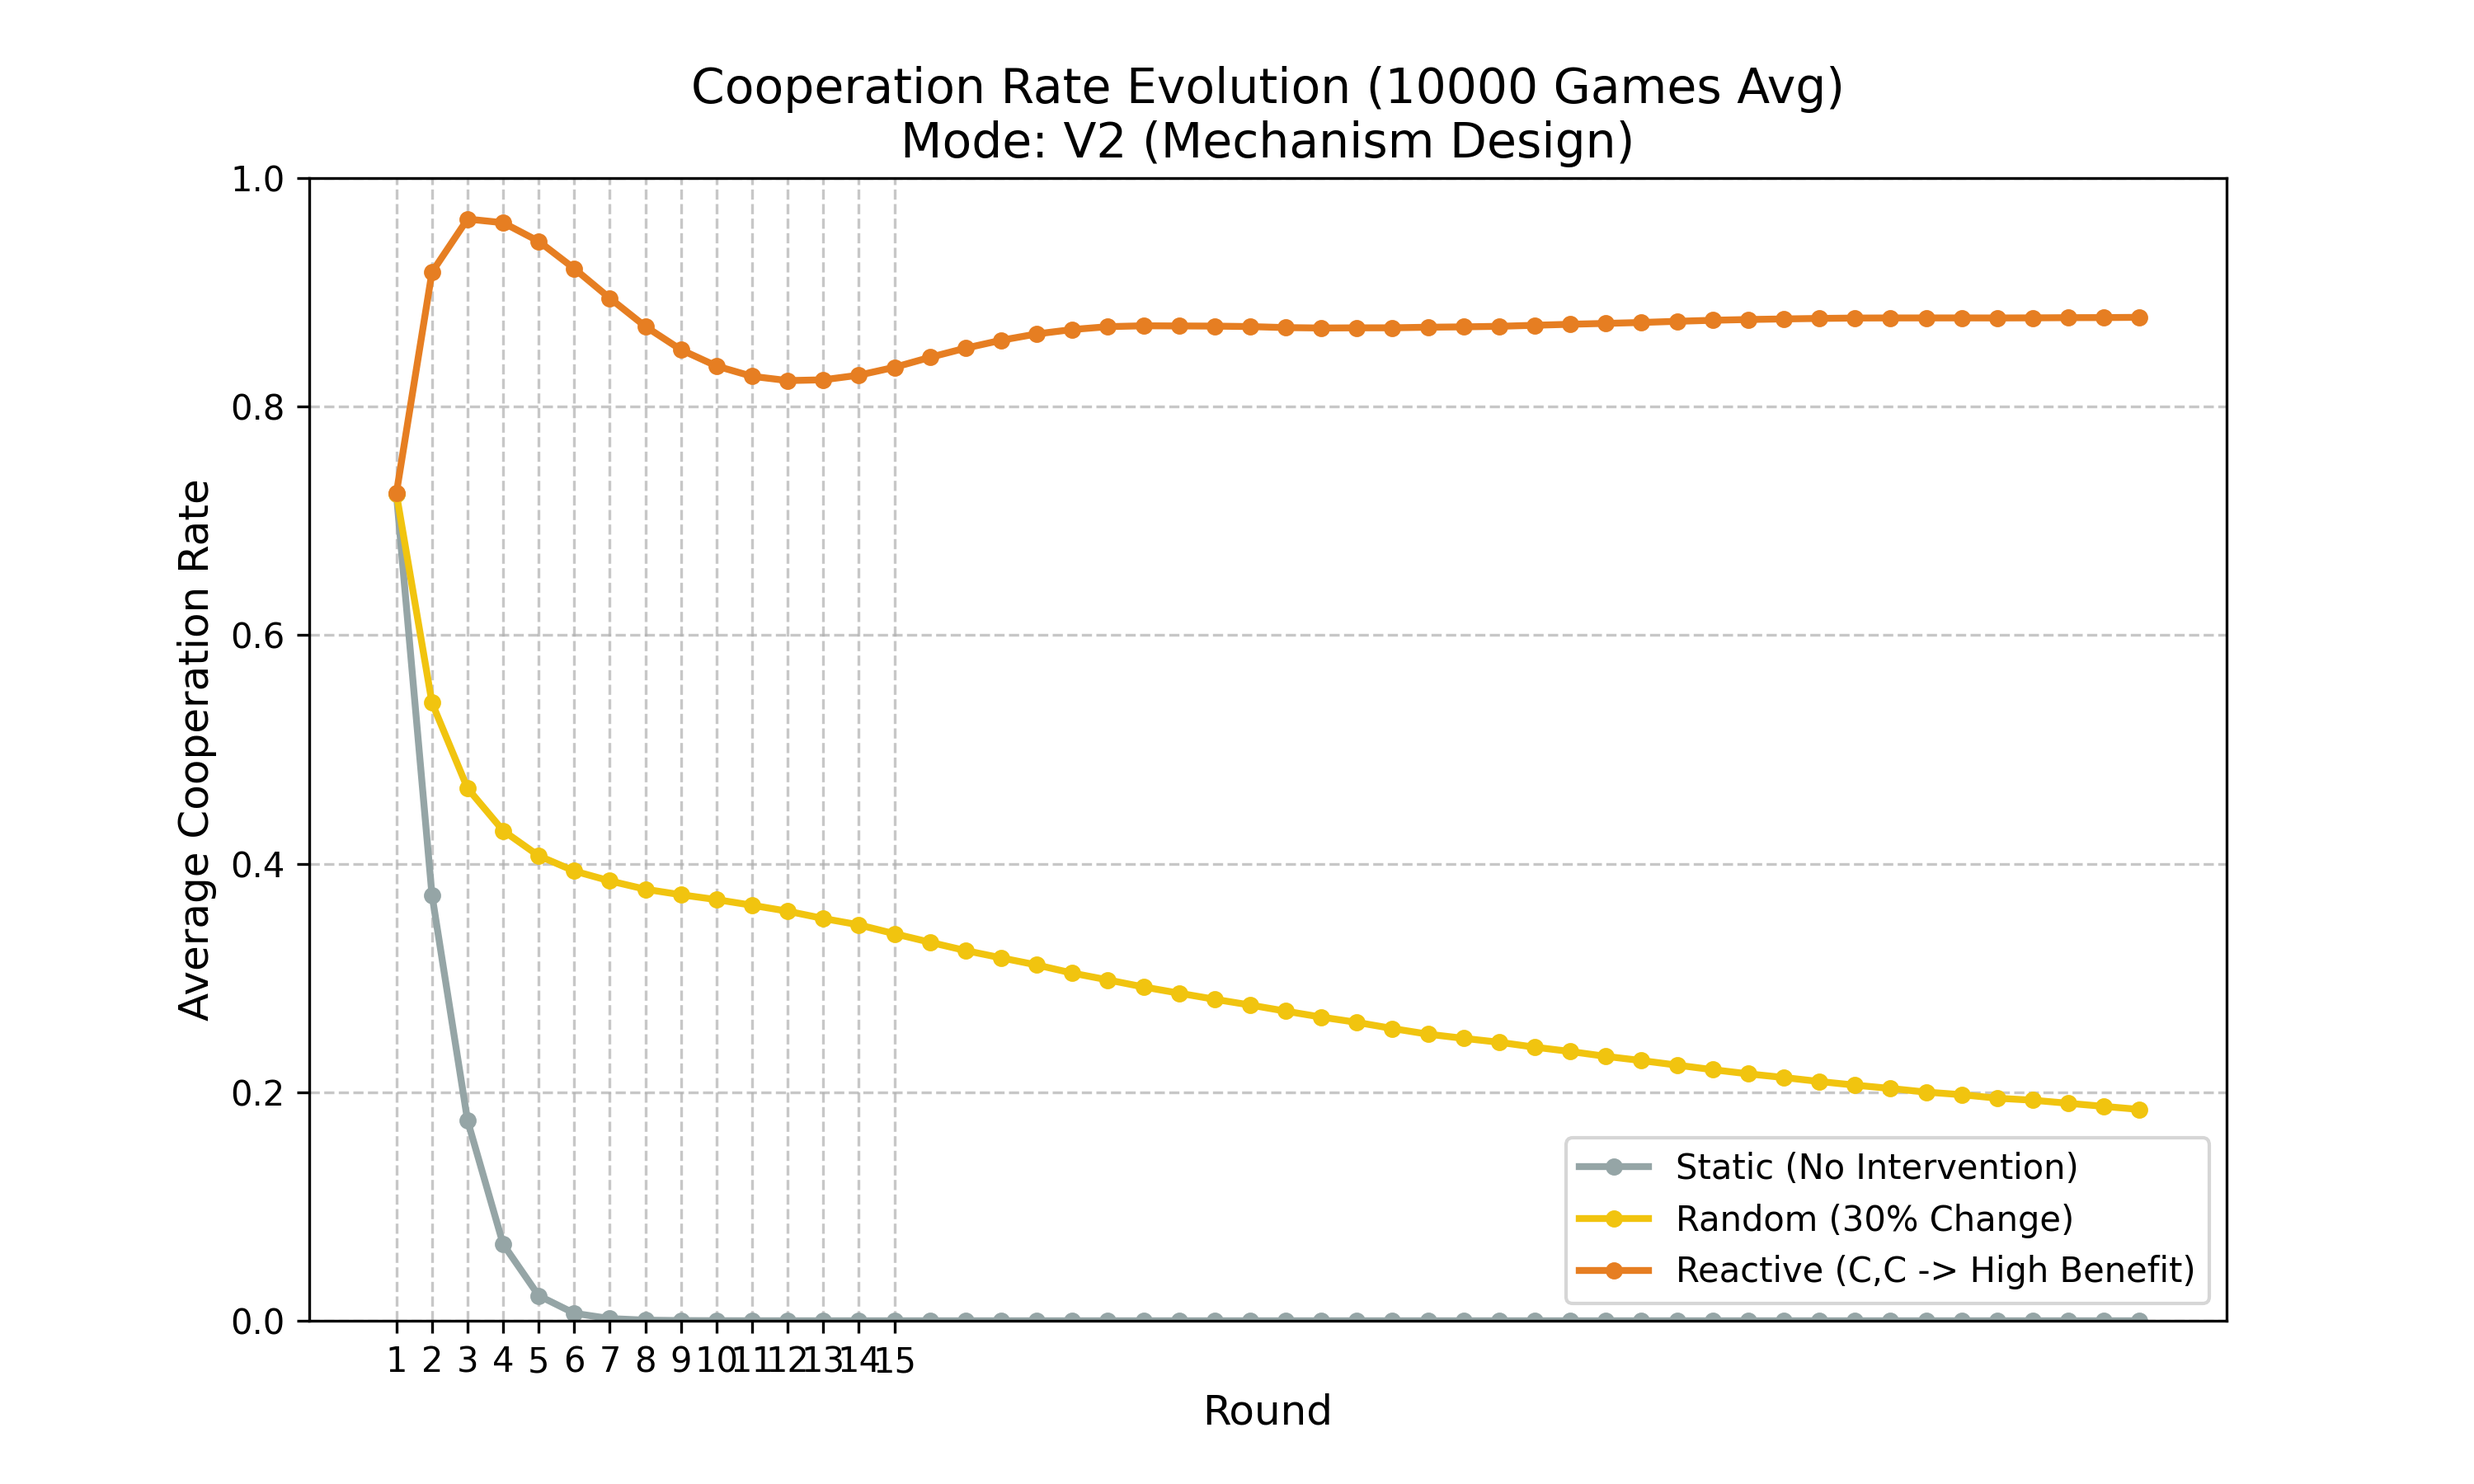
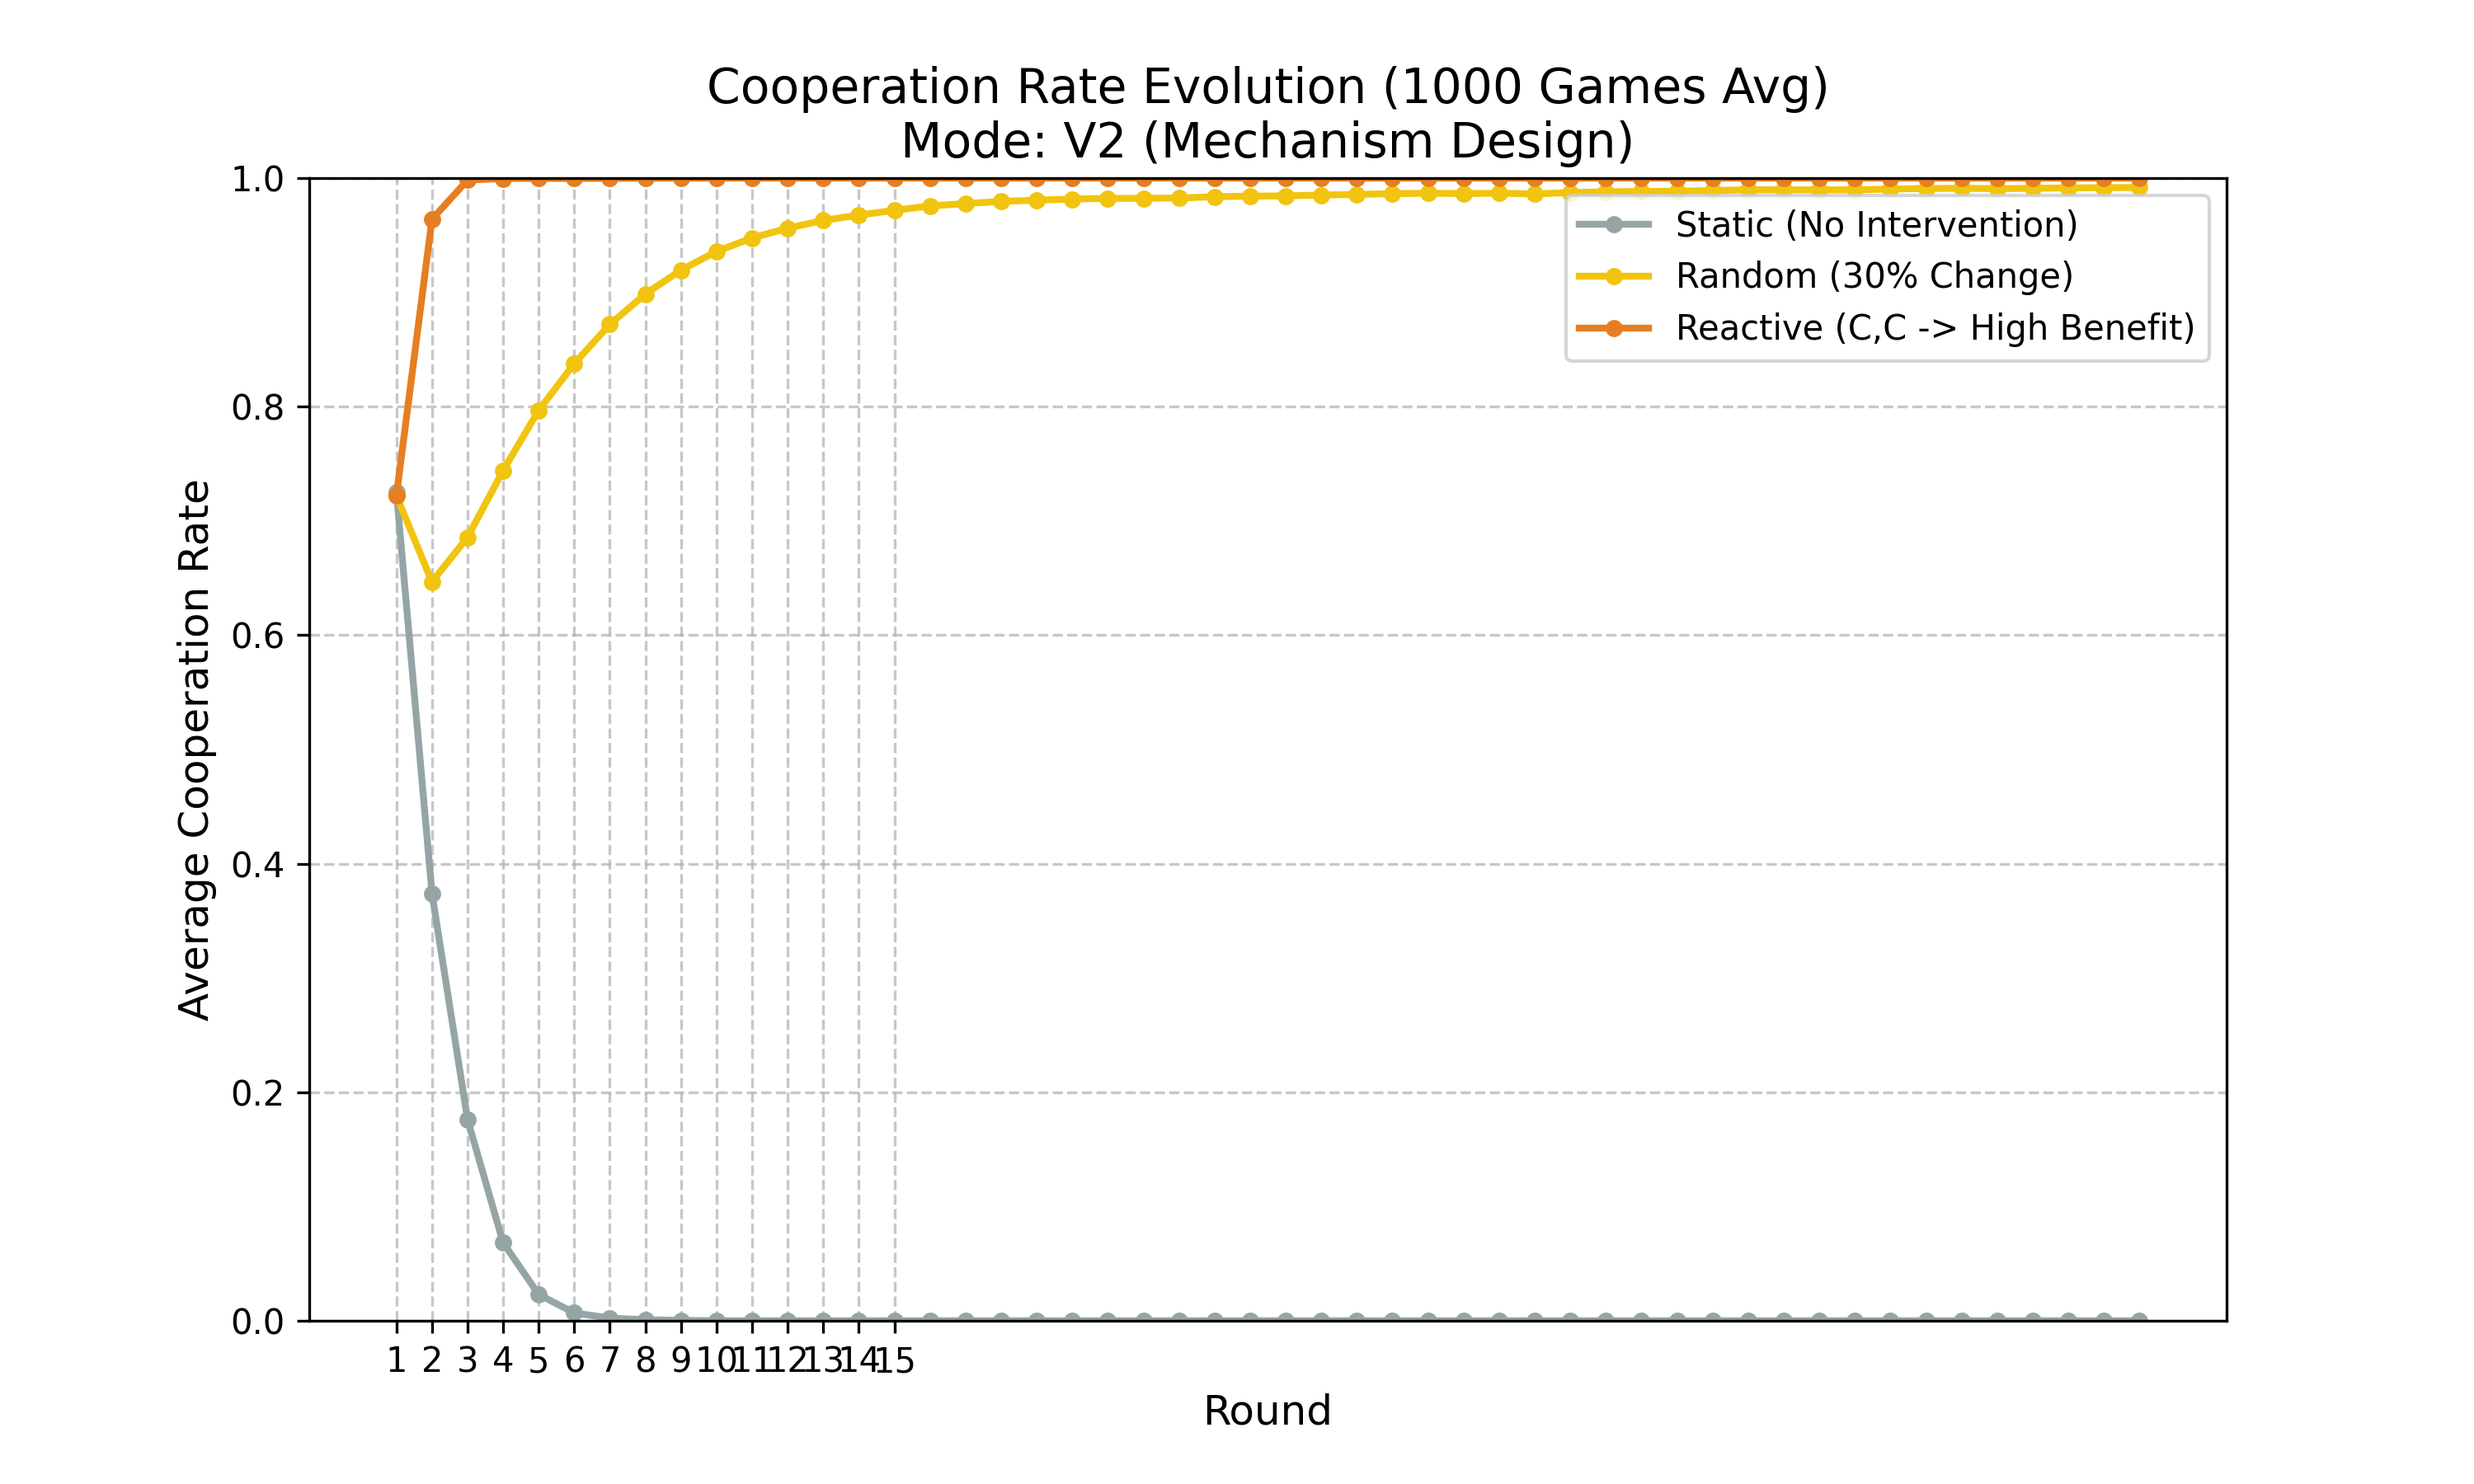
0424

diff --git a/planners/baselines.py b/planners/baselines.py
@@ -1,5 +1,6 @@
 # planners/baselines.py
 import torch
+import math
 from .base import BasePlanner, prob_to_logits
 from config import MODE
 
@@ -55,10 +56,38 @@ class StaticPlannerV2(BasePlanner):
         return logits
 
 class RandomPlannerV2(BasePlanner):
+    """
+    V2 随机规划师（严格修正版）：
+    以 30% 的概率建议“改变现状”（即翻转当前的风险规则）。
+    - 如果当前是低风险 (0)，30% 概率建议高风险 (1)，70% 建议保持低风险 (0)
+    - 如果当前是高风险 (1)，30% 概率建议低风险 (0)，70% 建议保持高风险 (1)
+    """
     def get_logits(self, capital, prev_decisions, edge_features, round_num):
-        p_high_risk = 0.3
-        logits = prob_to_logits(p_high_risk, edge_features.device)
-        return logits.view(1, 1, 1, 2).expand(edge_features.shape[0], edge_features.shape[1], edge_features.shape[2], -1)
+        # 获取当前真实的规则状态 (0=低风险, 1=高风险)
+        # Shape: (B, N, N)
+        current_games = edge_features[..., 1] 
+        
+        # log(0.3) 和 log(0.7)
+        log_change = math.log(0.3)
+        log_keep = math.log(0.7)
+        
+        # --- 使用 torch.where 完美替代布尔索引，彻底杜绝维度报错 ---
+        
+        # 对于 Index 0 (建议低风险) 的打分：
+        # 如果当前是低风险(0)，则建议 0 代表"保持" (log_keep)
+        # 如果当前是高风险(1)，则建议 0 代表"改变" (log_change)
+        logits_0 = torch.where(current_games == 0, log_keep, log_change)
+        
+        # 对于 Index 1 (建议高风险) 的打分：
+        # 如果当前是低风险(0)，则建议 1 代表"改变" (log_change)
+        # 如果当前是高风险(1)，则建议 1 代表"保持" (log_keep)
+        logits_1 = torch.where(current_games == 0, log_change, log_keep)
+        
+        # 将分离计算好的 logits 沿着最后一个维度拼接
+        # Shape 变为: (B, N, N, 2)
+        logits = torch.stack([logits_0, logits_1], dim=-1)
+        
+        return logits
 
 class MaxRiskPlannerV2(BasePlanner):
     """V2模式下的最大风险逻辑：所有边都玩高风险"""
@@ -84,7 +113,6 @@ class ReactivePlannerV2(BasePlanner):
         
         logits = torch.zeros(B, N, N, 2, device=prev_decisions.device)
         
-        # 【修改处】：
         # 如果 both_coop 为 True，低风险(0)打负分，高风险(1)打正分
         # 如果 both_coop 为 False，低风险(0)打正分，高风险(1)打负分
         logits[..., 0] = torch.where(both_coop, -10.0, 10.0) 

diff --git a/coo2.py b/coo2.py
@@ -39,7 +39,7 @@ def run_batch_simulation(strategy_name, n_games=10000, device="cuda"):
 
     return coop_rates
 
-def plot_results(n_games=10000):
+def plot_results(n_games=1000):
     device = torch.device("cuda" if torch.cuda.is_available() else "cpu")
     print(f"[系统] 正在使用 {device} 运行 {n_games} 局平均测试...")
 
@@ -80,7 +80,7 @@ if __name__ == "__main__":
     # 如果 10000 局在你的显存中放不下，可以尝试 5000 或分批运行
     # 对于 N=20, 10000 局通常没问题；对于 N=100, 建议先试 1000
     try:
-        plot_results(n_games=10000)
+        plot_results(n_games=1000)
     except RuntimeError as e:
         if "out of memory" in str(e).lower():
             print("\n[错误] 显存不足，请调小 n_games 数值。")

diff --git a/config.py b/config.py
@@ -29,7 +29,7 @@ class GameConfig_v2:
     COST_C = 0.05
 
     # 收益矩阵参数
-    C_HIGH = 0.3
+    C_HIGH = 0.1
     C_LOW = 0.1
     B_HIGH = 0.8
     B_LOW = 0.2
